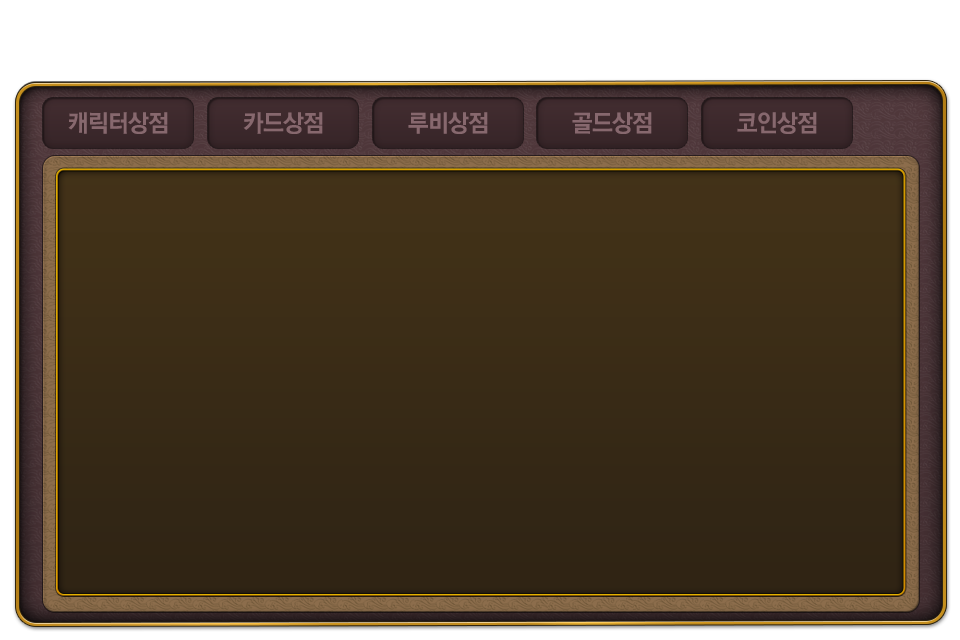
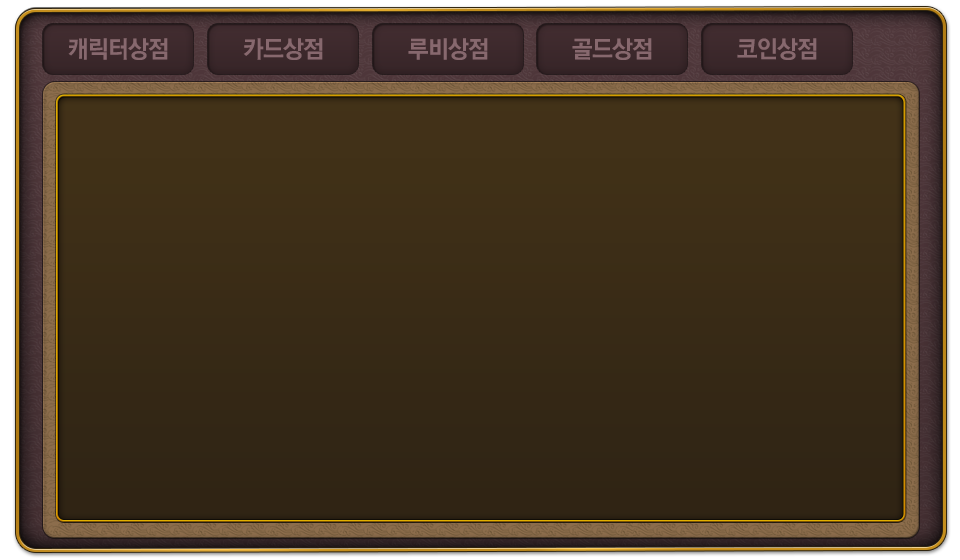
상점 back 이미지 수정으로 인한 좌표 수정

Changed region(s): [[0.0, 0.0, 1.0, 0.2732], [0.0, 0.9107, 1.0, 1.0]]

diff --git a/Classes/ShopPopup.cpp b/Classes/ShopPopup.cpp
@@ -20,6 +20,7 @@
 #include "StageImgLoader.h"
 #include "CardCase.h"
 #include "CardAnimations.h"
+#include "StartSettingScene.h"
 
 enum ShopPopup_Zorder{
 	kSP_Z_back = 1,
@@ -208,7 +209,7 @@ void ShopPopup::setShopCode(ShopCode t_code)
 	if(recent_shop_code == kSC_character)
 	{
 		CCSize table_size = CCSizeMake(423, 208);
-		CCPoint table_position = ccp(241-table_size.width/2.f, 25);
+		CCPoint table_position = ccp(241-table_size.width/2.f, 22);
 //		CCSprite* temp_back = CCSprite::create("whitePaper.png", CCRectMake(0, 0, table_size.width, table_size.height));
 //		temp_back->setOpacity(100);
 //		temp_back->setAnchorPoint(CCPointZero);
@@ -323,9 +324,9 @@ void ShopPopup::setShopCode(ShopCode t_code)
 	}
 	else
 	{
-		setCardBuyMenu(ccp(100,128), kSP_MT_cardHigh, "shop_card_high.png", "price_ruby_img.png", card_price_high.getV());
-		setCardBuyMenu(ccp(240,128), kSP_MT_cardMid, "shop_card_mid.png", "price_gold_img.png", card_price_mid.getV());
-		setCardBuyMenu(ccp(380,128), kSP_MT_cardLow, "shop_card_low.png", "price_candy_img.png", card_price_low.getV());
+		setCardBuyMenu(ccp(100,125), kSP_MT_cardHigh, "shop_card_high.png", "price_ruby_img.png", card_price_high.getV());
+		setCardBuyMenu(ccp(240,125), kSP_MT_cardMid, "shop_card_mid.png", "price_gold_img.png", card_price_mid.getV());
+		setCardBuyMenu(ccp(380,125), kSP_MT_cardLow, "shop_card_low.png", "price_candy_img.png", card_price_low.getV());
 	}
 }
 
@@ -583,8 +584,8 @@ bool ShopPopup::init()
 	is_menu_enable = false;
 	
 	main_case = CCSprite::create("shop_back.png");
-	main_case->setAnchorPoint(CCPointZero);
-	main_case->setPosition(ccp(0,-320));
+	main_case->setAnchorPoint(ccp(0.5,0.5));
+	main_case->setPosition(ccp(240,160-450));
 	addChild(main_case, kSP_Z_back);
 	
 	
@@ -788,7 +789,7 @@ void ShopPopup::setHeartMenu()
 void ShopPopup::showPopup()
 {
 	setTouchEnabled(true);
-	CCMoveTo* main_move = CCMoveTo::create(0.3f, ccp(0,0));
+	CCMoveTo* main_move = CCMoveTo::create(0.3f, ccp(240,160));
 	CCCallFunc* main_call = CCCallFunc::create(this, callfunc_selector(ShopPopup::endShowPopup));
 	CCSequence* main_seq = CCSequence::createWithTwoActions(main_move, main_call);
 	main_case->runAction(main_seq);
@@ -803,7 +804,7 @@ void ShopPopup::hidePopup()
 {
 	is_menu_enable = false;
 	
-	CCMoveTo* main_move = CCMoveTo::create(0.5f, ccp(0,-320));
+	CCMoveTo* main_move = CCMoveTo::create(0.5f, ccp(240,160-450));
 	CCCallFunc* main_call = CCCallFunc::create(this, callfunc_selector(ShopPopup::endHidePopup));
 	CCSequence* main_seq = CCSequence::createWithTwoActions(main_move, main_call);
 	main_case->runAction(main_seq);
@@ -821,29 +822,29 @@ CCPoint ShopPopup::getContentPosition(int t_tag)
 	CCPoint return_value;
 	
 	if(t_tag == kSP_MT_close)
-		return_value = ccp(453,260);
+		return_value = ccp(453,257);
 	else if(t_tag == kSP_MT_character)
-		return_value = ccp(59,259);
+		return_value = ccp(59,256);
 	else if(t_tag == kSP_MT_card)
-		return_value = ccp(141.5f,259);
+		return_value = ccp(141.5f,256);
 	else if(t_tag == kSP_MT_ruby)
-		return_value = ccp(224,259);
+		return_value = ccp(224,256);
 	else if(t_tag == kSP_MT_gold)
-		return_value = ccp(306,259);
+		return_value = ccp(306,256);
 	else if(t_tag == kSP_MT_heart)
-		return_value = ccp(388.5f,259);
+		return_value = ccp(388.5f,256);
 	else if(t_tag == kSP_MT_content1)
-		return_value = ccp(100,180);
+		return_value = ccp(100,177);
 	else if(t_tag == kSP_MT_content2)
-		return_value = ccp(240,180);
+		return_value = ccp(240,177);
 	else if(t_tag == kSP_MT_content3)
-		return_value = ccp(380,180);
+		return_value = ccp(380,177);
 	else if(t_tag == kSP_MT_content4)
-		return_value = ccp(100,75);
+		return_value = ccp(100,72);
 	else if(t_tag == kSP_MT_content5)
-		return_value = ccp(240,75);
+		return_value = ccp(240,72);
 	else if(t_tag == kSP_MT_content6)
-		return_value = ccp(380,75);
+		return_value = ccp(380,72);
 	
 	return return_value;
 }
@@ -965,6 +966,8 @@ void ShopPopup::menuAction(CCObject* pSender)
 					((MainFlowScene*)(target_parent->getParent()))->heart_time = target_heartTime;
 				else if(before_code == kShopBeforeCode_puzzle)
 					((PuzzleScene*)(target_parent->getParent()))->heart_time = target_heartTime;
+				else if(before_code == kShopBeforeCode_startsetting)
+					((StartSettingScene*)(target_parent->getParent()))->heart_time = target_heartTime;
 				
 				vector<SaveUserData_Key> save_userdata_list;
 				
@@ -1044,6 +1047,8 @@ void ShopPopup::menuAction(CCObject* pSender)
 					((MainFlowScene*)(target_parent->getParent()))->heart_time = target_heartTime;
 				else if(before_code == kShopBeforeCode_puzzle)
 					((PuzzleScene*)(target_parent->getParent()))->heart_time = target_heartTime;
+				else if(before_code == kShopBeforeCode_startsetting)
+					((StartSettingScene*)(target_parent->getParent()))->heart_time = target_heartTime;
 				
 				vector<SaveUserData_Key> save_userdata_list;
 				
@@ -1123,6 +1128,8 @@ void ShopPopup::menuAction(CCObject* pSender)
 					((MainFlowScene*)(target_parent->getParent()))->heart_time = target_heartTime;
 				else if(before_code == kShopBeforeCode_puzzle)
 					((PuzzleScene*)(target_parent->getParent()))->heart_time = target_heartTime;
+				else if(before_code == kShopBeforeCode_startsetting)
+					((StartSettingScene*)(target_parent->getParent()))->heart_time = target_heartTime;
 				
 				vector<SaveUserData_Key> save_userdata_list;
 				
@@ -1202,6 +1209,8 @@ void ShopPopup::menuAction(CCObject* pSender)
 					((MainFlowScene*)(target_parent->getParent()))->heart_time = target_heartTime;
 				else if(before_code == kShopBeforeCode_puzzle)
 					((PuzzleScene*)(target_parent->getParent()))->heart_time = target_heartTime;
+				else if(before_code == kShopBeforeCode_startsetting)
+					((StartSettingScene*)(target_parent->getParent()))->heart_time = target_heartTime;
 				
 				vector<SaveUserData_Key> save_userdata_list;
 				
@@ -1281,6 +1290,8 @@ void ShopPopup::menuAction(CCObject* pSender)
 					((MainFlowScene*)(target_parent->getParent()))->heart_time = target_heartTime;
 				else if(before_code == kShopBeforeCode_puzzle)
 					((PuzzleScene*)(target_parent->getParent()))->heart_time = target_heartTime;
+				else if(before_code == kShopBeforeCode_startsetting)
+					((StartSettingScene*)(target_parent->getParent()))->heart_time = target_heartTime;
 				
 				vector<SaveUserData_Key> save_userdata_list;
 				
@@ -1360,6 +1371,8 @@ void ShopPopup::menuAction(CCObject* pSender)
 					((MainFlowScene*)(target_parent->getParent()))->heart_time = target_heartTime;
 				else if(before_code == kShopBeforeCode_puzzle)
 					((PuzzleScene*)(target_parent->getParent()))->heart_time = target_heartTime;
+				else if(before_code == kShopBeforeCode_startsetting)
+					((StartSettingScene*)(target_parent->getParent()))->heart_time = target_heartTime;
 				
 				vector<SaveUserData_Key> save_userdata_list;
 				
